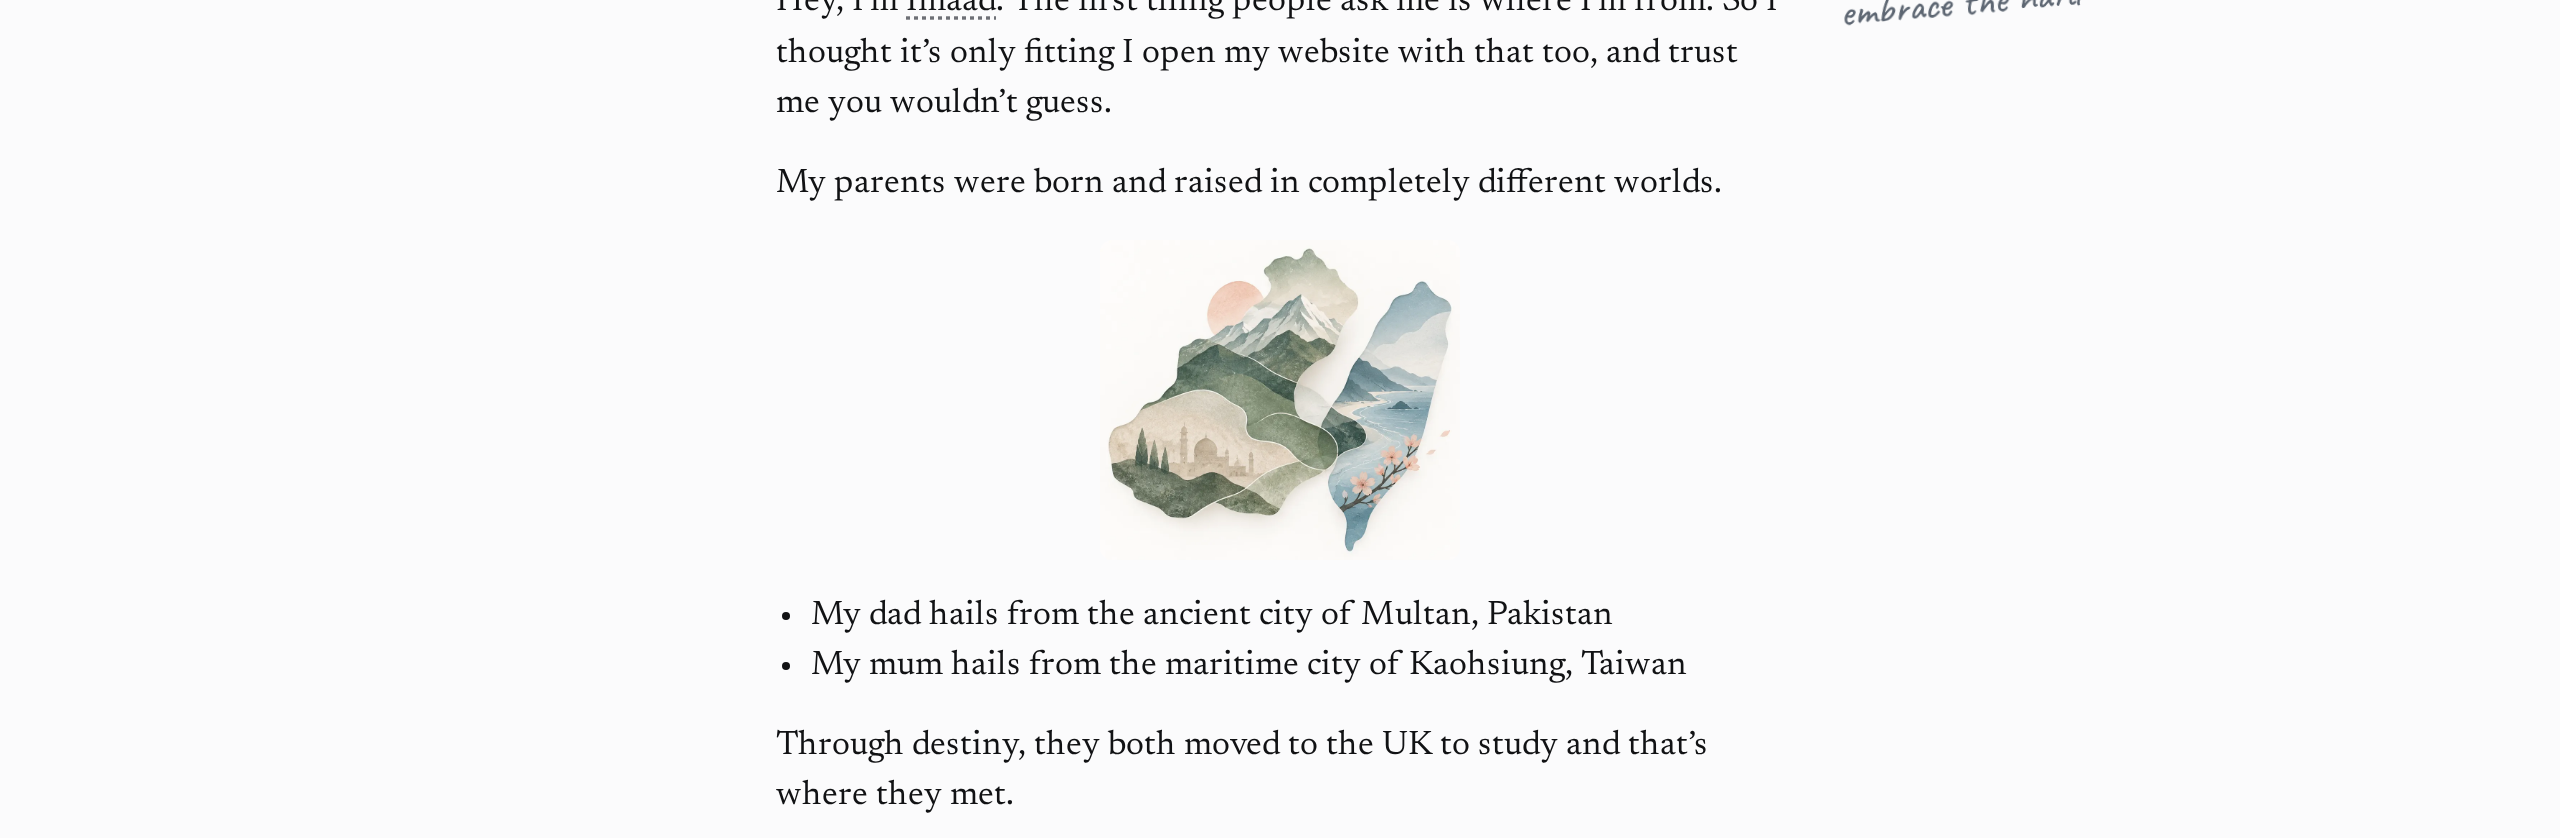
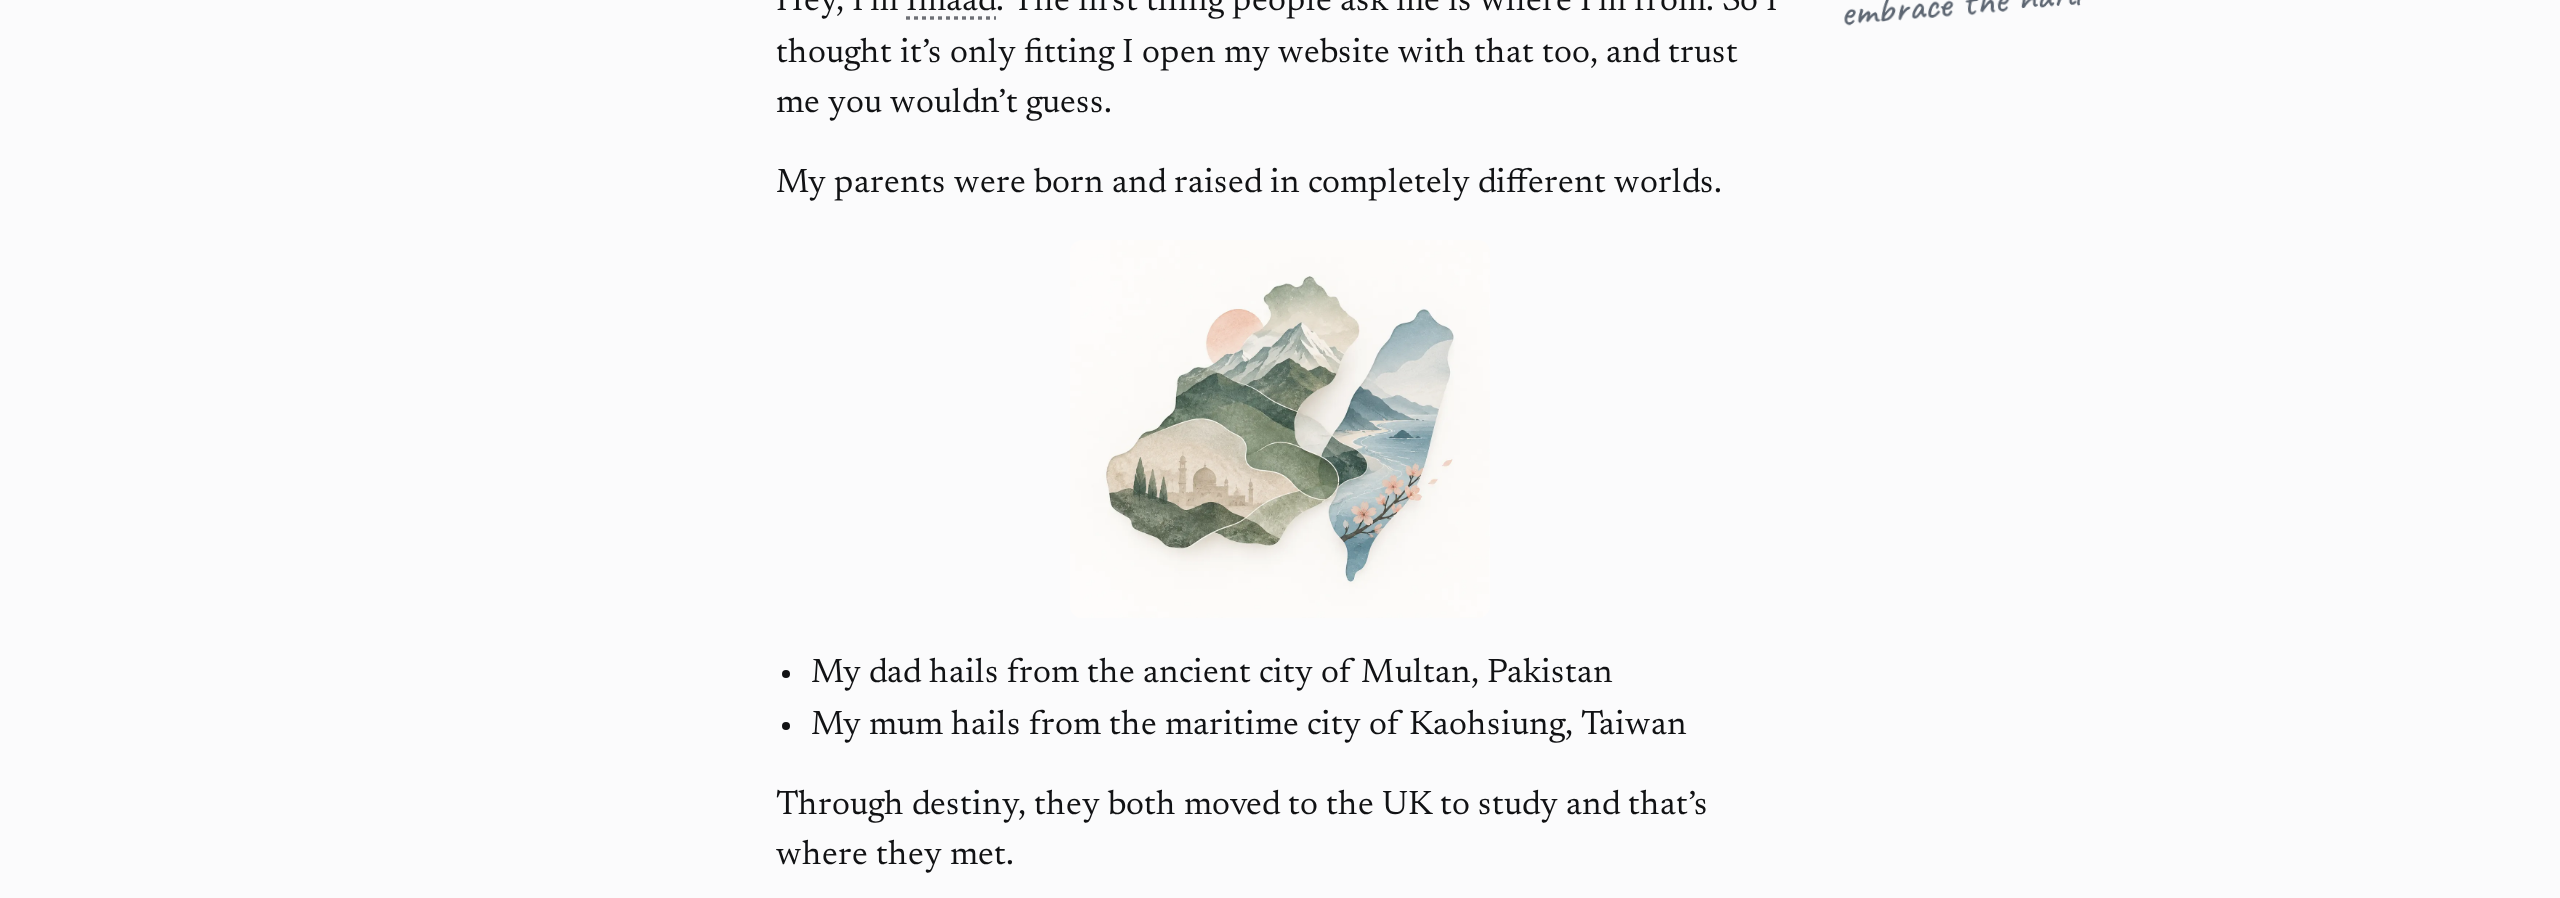
Now: looser crop around the illustration (210px wide, 189px tall)

diff --git a/src/styles/global.css b/src/styles/global.css
@@ -84,7 +84,7 @@ mark.ph { background: var(--mark); color: var(--mark-ink); padding: 0 0.25em; bo
 .quote p { margin: 0; font-family: var(--serif); font-style: italic; font-size: 17px; line-height: 1.45; }
 .quote cite { display: block; margin-top: 0.2rem; font-style: normal; font-family: var(--mono); font-size: 12px; color: var(--muted); }
 .prose ul { margin: 0 0 0.9rem; padding-left: 1.1rem; }
-.prose img { display: block; width: 100%; max-width: 180px; height: auto; margin: 0.4rem auto 1rem; border-radius: 6px; mix-blend-mode: multiply; }
+.prose img { display: block; width: 100%; max-width: 210px; height: auto; margin: 0.4rem auto 1rem; border-radius: 6px; mix-blend-mode: multiply; }
 :root[data-theme="dark"] .prose img { mix-blend-mode: normal; }
 .term {
   font: inherit; color: inherit; background: none; border: 0; padding: 0; cursor: help;
